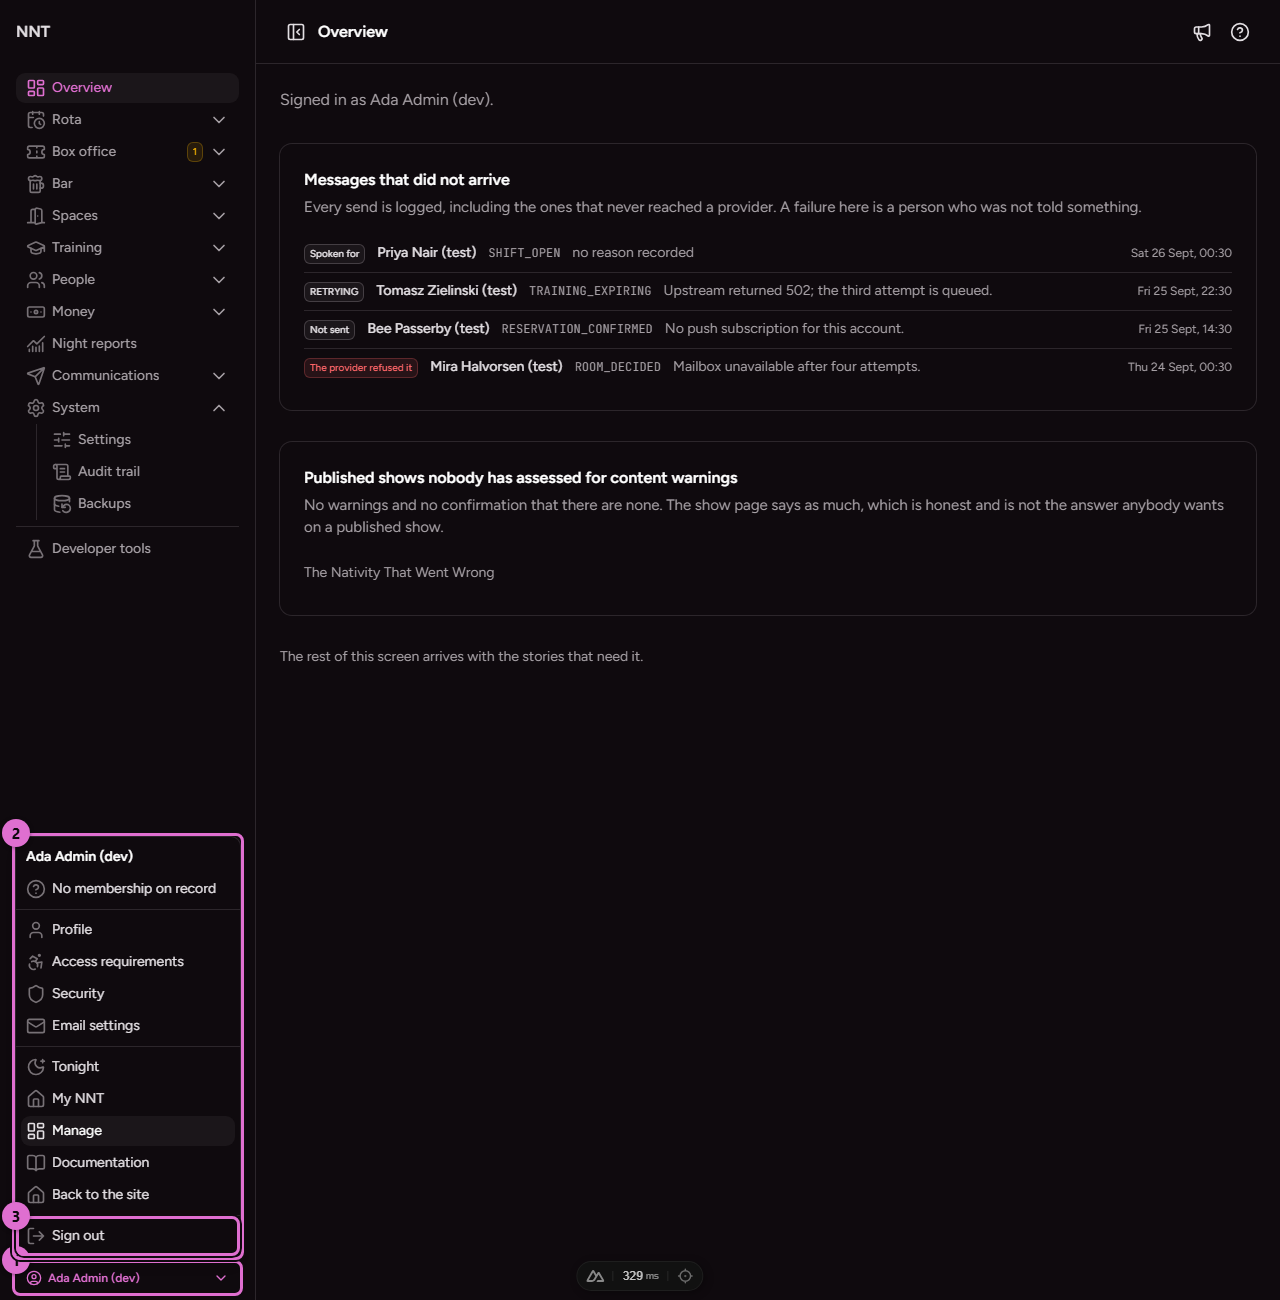
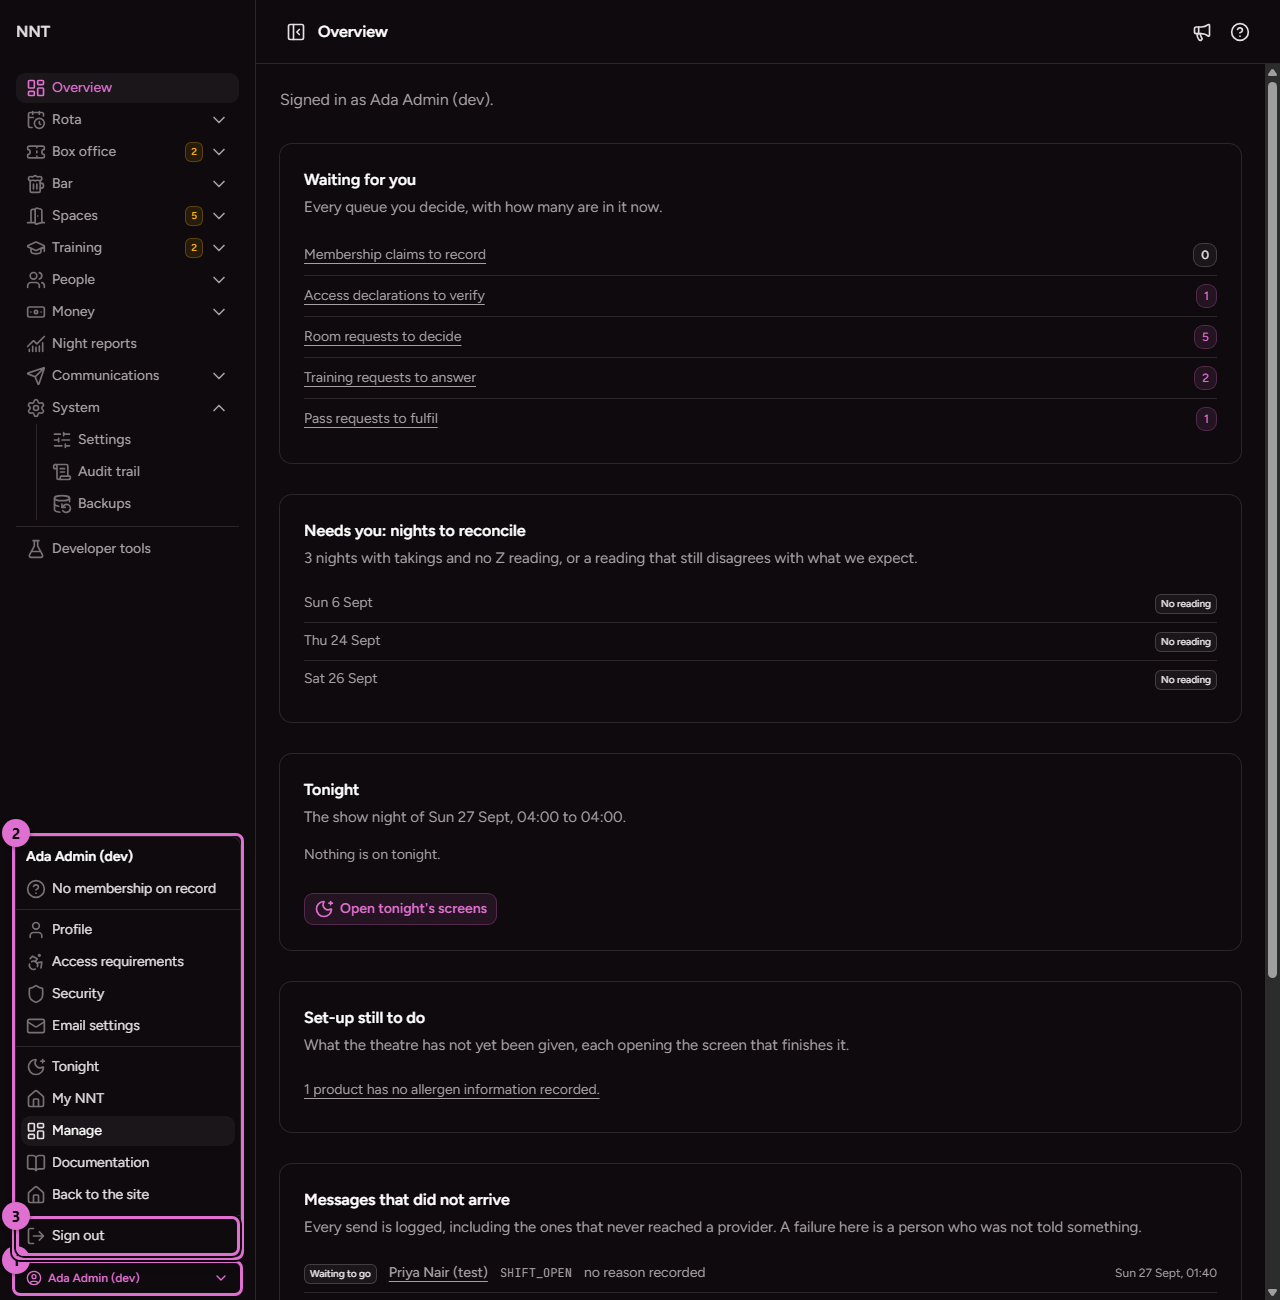
Document the console overview's waiting, tonight, set-up and drill parts and the three new sidebar counts, and retake its pictures (#1358)

diff --git a/scripts/docs-shots/system.ts b/scripts/docs-shots/system.ts
@@ -8,10 +8,14 @@ export const system: Shot[] = [
     name: 'system/overview',
     persona: admin,
     url: '/admin',
-    marker: '[data-test="delivery-trouble"]',
+    marker: '[data-test="tonight-card"]',
     width: CONSOLE_WIDTH,
+    height: 1700,
     annotations: [
       { selector: '[data-test="docs-link"]', label: 'Help for this screen' },
+      { selector: '[data-test="waiting-for-you"]', label: 'Waiting for you' },
+      { selector: '[data-test="tonight-card"]', label: 'Tonight' },
+      { selector: '[data-test="set-up-to-do"]', label: 'Set-up still to do' },
       { selector: '[data-test="delivery-trouble"]', label: 'Messages that did not arrive' },
     ],
   },

diff --git a/content/docs/13.system/index.md b/content/docs/13.system/index.md
@@ -20,6 +20,11 @@ System** in the console, and the console itself opens on an overview at **Manage
 - **"You do not have permission to do that"**: you hold no administrative permission, or not
   the one this screen needs. Ask the IT Manager to check your role; a shift alone never opens
   the console.
+- **"What is waiting could not be read"**: the counts did not arrive, so the overview says so
+  rather than showing nothing waiting. Open another console screen and come back.
+- **"The messages that did not arrive could not be read"**, or **"Tonight and the set-up still
+  to do could not be read"**: that part of the overview failed to load. Reload the page; if it
+  keeps happening, report it with the megaphone button.
 
 ## Who reaches the console
 
@@ -40,21 +45,65 @@ June is gone in August unless the incoming committee grants it again.
 
 ## The overview
 
-![The console overview with the help link (1) and the list of messages that did not arrive (2)](/images/docs/system/overview.png)
+The overview is what is waiting for you and what is still to be set up. Every part of it is shown
+only to somebody who could act on it, so two officers opening it see different screens, and a part
+with nothing in it for you is not drawn at all.
+
+![The console overview with the help link (1), Waiting for you (2), Tonight (3), Set-up still to do (4) and the messages that did not arrive (5)](/images/docs/system/overview.png)
 
 1. **Help for this screen** opens the documentation page for the screen you are on. Every
    console, member and show-night screen carries one.
-2. **Messages that did not arrive** lists every send that never reached a person, newest first,
+2. **Waiting for you** has one line for each queue you decide, with how many are in it now and
+   a link to the screen that works it. A queue with nothing in it still has its line, reading 0.
+   The numbers are the ones beside each screen in the sidebar, read once for both.
+3. **Tonight** lists what is on this show night, 04:00 to 04:00, with the venue and the curtain
+   time, and opens tonight's screens. It is for whoever can open those screens without a shift:
+   the Front of House Manager, the Bar Manager and the IT Manager.
+4. **Set-up still to do** lists what the theatre has not yet been given, each line opening the
+   screen that finishes it. It disappears once everything in it is done.
+5. **Messages that did not arrive** lists every send that has not reached a person, newest first,
    with why. It is for whoever reads the audit trail, and is not shown to anybody who does not:
    a trainer or a department lead reaches this screen on their standing alone, and an empty
    card would wrongly tell them nothing had failed.
 
-Each line carries a badge saying what happened: **The provider refused it** (the email or
-push provider returned a failure), **Not sent** (the message was suppressed before it went), or
-**Spoken for** (it is still in the queue). Beside the person's name and the message type is the
+### Waiting for you
+
+| Line | For | Opens |
+| --- | --- | --- |
+| Membership claims to record | whoever records claims: the Manager and the IT Manager | [Members](/docs/people/members), on its claims queue |
+| Access declarations to verify | the Accessibility Officer | [Access profiles](/docs/box-office/access-profiles) |
+| Room requests to decide | the Manager and the Theatre Manager | [Room requests](/docs/spaces/room-requests) |
+| Training requests to answer | whoever reads the training catalogue, and a department lead for their own departments | [Requests](/docs/training/requests) |
+| Pass requests to fulfil | the Front of House Manager | [Pass desk](/docs/box-office/pass-desk) |
+
+The IT Manager holds every permission, so sees every line.
+
+### Set-up still to do
+
+| Line | For | Opens |
+| --- | --- | --- |
+| A shift role with no training module named, or one still a draft, retired or missing, so nobody can claim that shift | whoever reads the rota | the readiness card on [Shift templates](/docs/rota/shift-templates) |
+| Nothing is on hand at the bar | whoever reads the bar | [Stock](/docs/bar/stock) |
+| No stocktake has been applied yet | whoever reads the bar or takes a stocktake | [Stocktakes](/docs/bar/stocktakes) |
+| Products with no allergen information recorded, counting any not retired | whoever reads the bar | [Products](/docs/bar/products) |
+
+### An overdue restore drill
+
+If the last restore drill failed, if none has ever passed, or if the interval between drills has
+run out, the IT Manager sees a warning at the top of the overview with a button to
+[Backups](/docs/system/backups). It stays there until a drill passes.
+
+### Messages that did not arrive
+
+Each line carries a badge in the send log's own words: **Waiting to go**, **Trying again**,
+**Failed, will try again**, **Failed, no attempts left**, **Held back by a preference** or
+**Skipped, no address to send to**. Beside the person's name and the message type is the
 reason: **muted this topic**, **has not proved their address**, **the account is gone**, **the
 account was erased**, or **no reason recorded**. A failure here is a person who was not told
 something, so it belongs in front of the committee rather than in a log nobody opens.
+
+If you can read the [send log](/docs/communications/send-log), each name opens that person's send
+history, and **Open the send log** under the list opens the whole log.
 
 **Needs you: nights to reconcile** appears only when a night is waiting, and only to somebody who
 reads the money records, such as the Treasurer. It lists every night that took card money with no
@@ -68,8 +117,6 @@ one, and only to somebody holding a ticketing permission. A published show with 
 no confirmation that there are none says exactly that on its public page, which is honest and
 is not the answer anybody wants. Each title links to the show, where the assessment is recorded:
 see [Content warnings](/docs/box-office/content-warnings).
-
-The rest of the overview arrives with the stories that need it, and the screen says so.
 
 ## The screens
 

diff --git a/content/docs/01.getting-started/4.finding-your-way.md b/content/docs/01.getting-started/4.finding-your-way.md
@@ -60,9 +60,9 @@ not shown. A group opens when you go to a screen inside it and stays open until 
 so Box office and Bar can both be open at once. A group holding only one screen you can open is
 not a heading at all: that screen is drawn as a link in the group's place, so **Night reports**
 is a link for everybody, and a Box office that holds only Access profiles for you is that link.
-If one group is all you have, it is open when you arrive. **Overview** at the top is the
-operations dashboard: messages that did not arrive and shows nobody has assessed for content
-warnings. The **NNT** at the top of the sidebar goes back to it.
+If one group is all you have, it is open when you arrive. **Overview** at the top is what is
+waiting for you and what is still to be set up: see [System](/docs/system).
+The **NNT** at the top of the sidebar goes back to it.
 
 Every name in the sidebar is read whole at its opening width. It can be dragged wider from its
 edge, and narrower down to its icons.
@@ -70,9 +70,9 @@ edge, and narrower down to its icons.
 Inside a group the screens are in two parts. **Every day** is the work of a week: the desk, the
 board, the stock, the requests that came in. **Set-up** is what a committee sets when it takes
 over or when a season is built, and then leaves alone. A group whose screens are all one kind,
-such as People or Money, has no headings at all. A screen with a queue waiting on you, Members
-or Access profiles, shows how many beside its name and beside its group's, so it is seen from
-any screen.
+such as People or Money, has no headings at all. A screen with a queue waiting on you, Members,
+Access profiles, Pass desk, Room requests or Training's Requests, shows how many beside its name
+and beside its group's, so it is seen from any screen.
 
 The groups and their screens, in sidebar order:
 

diff --git a/content/docs/09.people/2.members.md b/content/docs/09.people/2.members.md
@@ -111,9 +111,9 @@ membership: it waits here until an officer records it or declines it.
 
 1. Press **Record n claims** on the toolbar, or under **Filters** set **Show** to **Awaiting
    record**. Either way the count is how many are waiting. If you can record claims, the same
-   count shows beside **People** and **Members** in the sidebar on every console screen, and
-   while any claim waits you are sent one message a day, by email and in your inbox, saying how
-   many and since when, with a link straight here.
+   count shows beside **People** and **Members** in the sidebar on every console screen and on
+   the console overview, and while any claim waits you are sent one message a day, by email and
+   in your inbox, saying how many and since when, with a link straight here.
 2. Each claim shows the member, the student number they gave (with a **Differs** badge if the
    account already holds a different number), the purchase date, the term and how long they have
    waited. An **Extends one ending** badge means the account holds a term still running on the

diff --git a/content/docs/08.training/4.requests.md b/content/docs/08.training/4.requests.md
@@ -3,7 +3,7 @@ title: Requests
 description: The demand board of what members are asking to be taught, and answering a request.
 module: Training
 audience: member
-updatedOn: 2026-09-22
+updatedOn: 2026-09-27
 updatedBy: Matt Adcock
 navigation:
   icon: i-lucide-hand
@@ -13,7 +13,8 @@ A member who wants a module that has no session can request it from the catalogu
 requests gather on the demand board at **Manage, Training, Requests**, so whoever can run a
 session sees what is wanted. Anybody who can read the catalogue can open it; a department
 lead sees requests for their own departments' modules only. The Training Manager and the
-Manager answer one, and so does a lead in their own department.
+Manager answer one, and so does a lead in their own department. How many requests are open,
+counted the same way, shows beside **Requests** in the sidebar and on the console overview.
 
 ::callout{icon="i-lucide-info" color="info"}
 A request is a demand signal, never a queue position. It confers no priority or place in any

diff --git a/content/docs/04.box-office/10.access-profiles.md b/content/docs/04.box-office/10.access-profiles.md
@@ -11,9 +11,9 @@ navigation:
 
 A member declares their access requirements from their own account. Somebody has to sight the
 evidence and agree, in operational words, what the door should know. That is this screen, at
-**Manage, Box office, Access profiles**, under Every day. The sidebar shows how many
-declarations are waiting beside it, from any screen. The Accessibility Officer is the only
-person who opens it: general box office cannot.
+**Manage, Box office, Access profiles**, under Every day. How many declarations are waiting
+shows beside it in the sidebar, from any screen, and on the console overview. The Accessibility
+Officer is the only person who opens it: general box office cannot.
 
 ::callout{icon="i-lucide-shield" color="warning"}
 **Special category data.** What is declared here is encrypted at rest and never leaves this

diff --git a/content/docs/04.box-office/2.pass-desk.md b/content/docs/04.box-office/2.pass-desk.md
@@ -3,7 +3,7 @@ title: Pass desk
 description: Selling a pass to a named buyer on the reader, or fulfilling one they requested online.
 module: Ticketing
 audience: committee
-updatedOn: 2026-09-23
+updatedOn: 2026-09-27
 updatedBy: Matt Adcock
 navigation:
   icon: i-lucide-ticket-check
@@ -11,7 +11,8 @@ navigation:
 
 A pass is bought once and admitted against many performances. It is issued here, at
 **Manage, Box office, Pass desk**, to a named account; the buyer then shows its QR at the
-door. The Front of House Manager issues them.
+door. The Front of House Manager issues them, and sees how many pass requests are waiting
+beside **Pass desk** in the sidebar and on the console overview.
 
 ::callout{icon="i-lucide-info" color="info"}
 A pass is paid for on the Students' Union's SumUp reader like a ticket. The screen only records

diff --git a/content/docs/06.spaces/2.room-requests.md b/content/docs/06.spaces/2.room-requests.md
@@ -13,7 +13,8 @@ Room requests is the one queue for everything a member has asked for that needs 
 answer, whoever manages the room. It is at **Manage, Spaces, Room requests**, and the Manager
 and the Theatre Manager answer it. A role that only reads the rooms does not see it in the
 navigation. Anybody who can answer a request is an approver: there is no separate approver
-role.
+role. An approver sees how many requests are open, ours and the unlisted ones together, beside
+**Room requests** in the sidebar and on the console overview.
 
 ::callout{icon="i-lucide-info" color="info"}
 **A request for one of our rooms holds its slot while it waits**, so leaving one here keeps the
